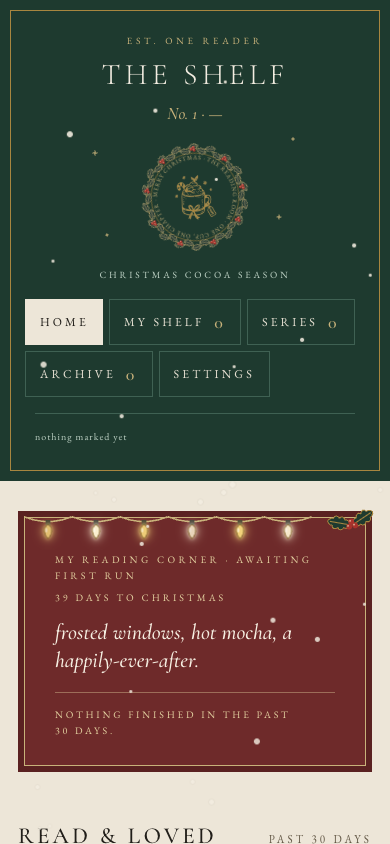
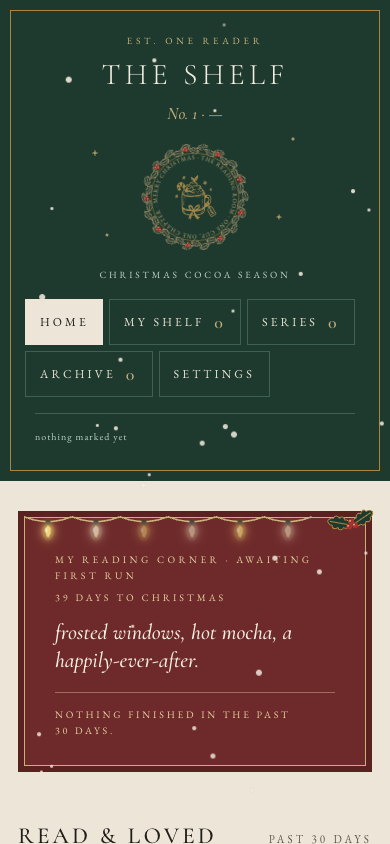
docs(season): name the Christmas snow in CONTEXT.md and the page comments

diff --git a/pipeline/design/app.html b/pipeline/design/app.html
@@ -120,7 +120,7 @@
      under the season's key. The page sets the corner colours as custom
      properties on the corner (cornerStyle); without them they fall back to
      the plain parchment corner. The looks bend DESIGN.md at the reader's
-     request: the seal garlands, Christmas's glowing lights, and the once-a-day
+     request: the seal garlands, Christmas's glowing lights and gentle snow, and the once-a-day
      moment (petals, leaves or snow fall, or bubbles rise, one time). */
   [data-m="sidepanel"]{position:relative}
   [data-m="stars"]{position:absolute;left:0;top:0;width:100%;height:300px;pointer-events:none}
@@ -1094,7 +1094,7 @@ class Component extends DCLogic {
      of the reader's local day. The day is remembered in localStorage; if storage
      fails the moment does not play. An overlay only (never blocks a tap), about
      eight seconds, and skipped entirely under prefers-reduced-motion. Christmas
-     has its lights instead. */
+     has its lights and its gentle snow instead. */
   moment(){
     try{
       if(typeof window==='undefined'||!window.requestAnimationFrame)return;

diff --git a/CONTEXT.md b/CONTEXT.md
@@ -77,7 +77,7 @@ One of the three curation lanes — sport romance · romantasy · contemporary r
 The panel at the top of Home that shows the season's quote of the day.
 
 **Season**:
-One of five date ranges that every day of the year falls into exactly once — autumn (1 Sep–31 Oct), Christmas (1 Nov–6 Jan), winter (7 Jan–end of February), spring (1 Mar–31 May), summer (1 Jun–31 Aug). The season, read from the reader's local date, sets the sidebar drink and its label, the quote of the day (24 per season, in order from its first day) and the look: the drawings around the seal and its rim words, four small sidebar drawings, a sprig and a colour on the reading corner — autumn maple leaves on rust, Christmas holly on oxblood with lights and a countdown, winter pine and snow on midnight, spring blossom on rose, summer lemons on sea glass. Outside Christmas, a season also has its **moment**: petals, leaves or snow fall, or bubbles rise, once across the page on the first open of the reader's day (never under reduced motion). The one table lives in `pipeline/build.py` (`SEASONS`); the drawings live in `pipeline/design/app.html`.
+One of five date ranges that every day of the year falls into exactly once — autumn (1 Sep–31 Oct), Christmas (1 Nov–6 Jan), winter (7 Jan–end of February), spring (1 Mar–31 May), summer (1 Jun–31 Aug). The season, read from the reader's local date, sets the sidebar drink and its label, the quote of the day (24 per season, in order from its first day) and the look: the drawings around the seal and its rim words, four small sidebar drawings, a sprig and a colour on the reading corner — autumn maple leaves on rust, Christmas holly on oxblood with lights, a countdown and gentle snow that falls the whole time the page is open (never under reduced motion), winter pine and snow on midnight, spring blossom on rose, summer lemons on sea glass. Outside Christmas, a season also has its **moment**: petals, leaves or snow fall, or bubbles rise, once across the page on the first open of the reader's day (never under reduced motion). The one table lives in `pipeline/build.py` (`SEASONS`); the drawings live in `pipeline/design/app.html`.
 _Avoid_: brew season, month season
 
 **Read & loved**:
